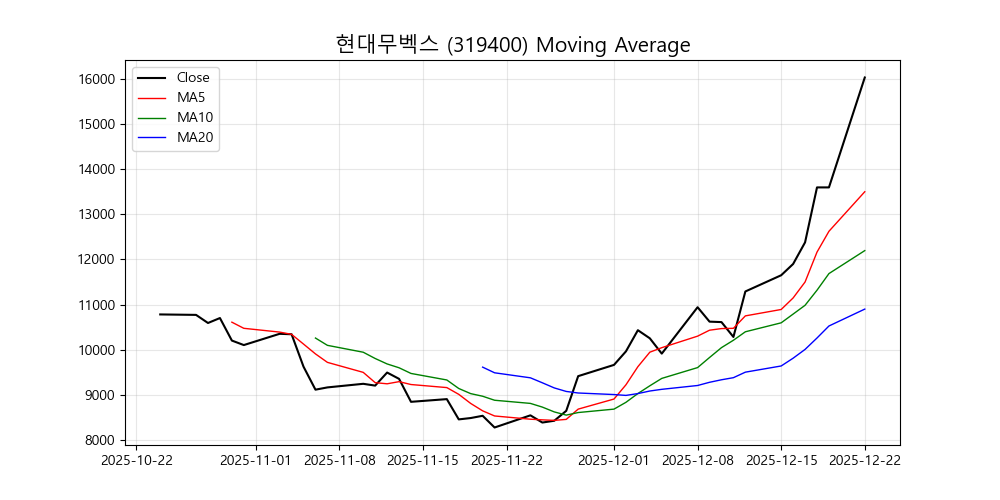
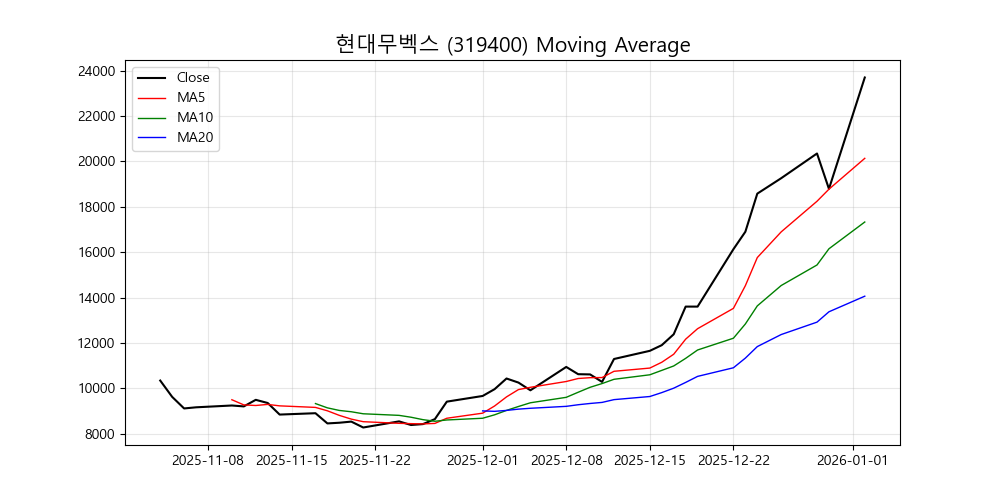
✅ Auto Strategy Report (2026-01-02)

diff --git a/_posts/2026-01-02-breakout.md b/_posts/2026-01-02-breakout.md
@@ -1,0 +1,141 @@
+---
+layout: single
+title: "[2026-01-02] 오늘의 급등주 포착 (정배열 돌파)"
+permalink: /blog/breakout/2026-01-02/
+excerpt: "오늘 시장에서 급등하며 정배열 추세를 만든 종목들을 분석합니다."
+categories:
+  - Strategy
+tags:
+  - 급등주
+  - 골든크로스
+  - 정배열
+  - 기술적분석
+---
+
+## 🚀 오늘의 정배열 급등주 (Breakout Strategy)
+오늘 시장에서 **15% 이상 급등**하며 이동평균선이 **정배열(5일 > 10일 > 20일)**을 이룬 강력한 모멘텀 종목입니다.
+
+---
+
+🔥🚀 [한미반도체] AI 대장주, 드디어 터졌습니다! 💰
+
+안녕하세요, 급등주 사냥꾼입니다!
+오늘 **한미반도체(042700)** 난리 났습니다! 주식창 보셨나요?
+현재가 144,500원! 무려 13.42% 폭등 중입니다. 📈
+이거, 그냥 스쳐 지나갈 흐름이 아닙니다. AI 대장주가 시동 거는 소리 들리시죠?
+
+---
+
+## 🚀 왜 지금 한미반도체가 폭발하는가? (급등 사유 3줄 요약)
+
+1.  **HBM/AI 사이클 핵심 장비:** 한미반도체는 AI 반도체의 핵심인 **HBM(고대역폭 메모리)** 제조에 필수적인 TC 본더 장비를 독점 공급합니다. AI 사이클이 돌면 가장 먼저 수혜를 받는 종목인 거죠.
+2.  **미래 먹거리 선점:** 차세대 HBM 칩 적층 방식인 **하이브리드 본더**를 개발하며 기술 경쟁력을 확보하고 있습니다. 미래를 준비하는 종목은 급등할 수밖에 없죠.
+3.  **수급 및 차트 분석 결과:** AI 딥러닝 분석 결과, 오늘 거래량 폭증과 함께 강력한 **정배열 골든크로스** 패턴이 발생했습니다. 세력 형님들이 움직이기 시작했다는 신호입니다.
+
+---
+
+## 🔥 차트 체크: 세력 형님들의 움직임 포착!
+
+오늘 AI 딥러닝 분석에서 **강력한 매수 신호**가 나왔습니다.
+
+*   **거래량 폭증 (1.66배!):** 평소보다 1.66배나 많은 거래량이 터졌습니다. 이건 개인투자자(개미)들의 힘만으로는 불가능하죠. **세력 형님들**이 들어왔다는 강력한 증거입니다.
+*   **정배열 골든크로스 돌파:** 차트가 정배열 상태로 전환되며 골든크로스를 돌파했습니다. 기술적으로 "상승 추세가 시작된다"는 가장 강력한 신호 중 하나입니다.
+
+---
+
+## 💰 급등주 사냥꾼의 대응법 (지금 사요?!)
+
+**"지금 당장 사도 되나요?"** 라고 많이들 물어보시는데요.
+급등주 매매의 기본은 **추격 매수 금지**입니다.
+
+*   **눌림목 매매 전략:** 오늘처럼 10% 이상 급등한 종목은 잠시 숨 고르기(눌림목) 타이밍을 줍니다. 급하게 따라가지 마시고, 매수 타이밍을 기다리세요.
+*   **꽉 잡으세요!:** AI 대장주로 손색이 없는 종목입니다. 이미 보유하고 계신 분들은 **매도할 이유가 없습니다.** 꽉 잡고 이 흐름을 즐기세요! 이 정도 이슈라면 당분간은 우상향 추세가 이어질 가능성이 높습니다.
+
+**"급등주 사냥꾼의 급등주 라이브"** 놓치지 마시고, 다음 급등주를 함께 사냥하러 가시죠! 💰🚀
+
+![한미반도체 차트](/assets/chartimg/strategies/042700_ma.png)
+
+---
+
+🔥 폭발주의보! 원익IPS, 반도체 장비 대장주로 등극! 🚀💰
+
+---
+
+## 🚀🔥 원익IPS, 오늘 제대로 터졌습니다!
+
+주목! 오늘 시장의 핫이슈, **원익IPS**입니다! 🚀🚀🚀
+
+시작부터 17%가 넘는 급등세를 보이면서 제대로 시동 걸었습니다. 반도체 장비주들 사이에서 조용히 기회를 엿보던 원익IPS가 드디어 움직이기 시작한 거죠.
+
+우리 '급등주 사냥꾼' 채널 구독자님들, 오늘 원익IPS 흐름 놓치면 안 됩니다!
+
+## 💡 왜 올랐나요? (3줄 요약)
+
+원익IPS 급등의 배경은 간단합니다. 복잡한 뉴스 대신 **"세력 형님들의 강한 매수세"**가 포착됐다는 것이 중요해요.
+
+*   **반도체 사이클 회복 기대감**: 3D NAND, DRAM 등 메모리 반도체 시장이 살아날 조짐을 보이면서 장비주에 대한 기대감이 커지고 있습니다. 원익IPS는 특히 **'퍼니스 장비'** 분야에서 독보적인 기술력을 갖고 있습니다.
+*   **AI 딥러닝 포착, 강력한 신호**: AI 분석 결과, 오늘 **거래량이 무려 3.29배 폭증**했습니다. 이는 단순한 개미들의 매수세가 아니라 큰 손들의 움직임이 있다는 신호죠!
+*   **기술적 분석 완벽한 타이밍**: 차트 분석으로도 **'정배열 골든크로스'** 패턴이 확인됐습니다. 주가가 장기 이평선을 뚫고 올라가는 강력한 상승 추세의 시작점입니다.
+
+## 📈 차트 체크: 정배열 골든크로스 돌파!
+
+차트가 예술입니다! 원익IPS는 이미 AI 분석에서 **강력한 매수 신호**가 나왔습니다.
+
+*   **정배열 상태 진입**: 단기 이평선이 장기 이평선 위에 놓이는 정배열이 완성됐어요. 이는 앞으로 상승 탄력이 강해질 가능성이 높다는 의미입니다.
+*   **거래량 폭발**: 거래량 급증은 주가 상승의 신뢰도를 높여줍니다. 오늘 3배 이상 터진 거래량은 세력 형님들이 물량을 쓸어 담고 있다는 증거죠.
+
+지금까지 횡보하던 박스권을 완벽하게 돌파했습니다. **'개미 털기'**를 끝내고 본격적인 상승 랠리를 시작하려는 모습이에요!
+
+## 💰 대응법: 지금이라도 사야 하나요?
+
+가장 궁금한 질문이죠? "지금 당장 달려가야 하나요?"
+
+결론부터 말씀드립니다. **급등할 때 추격 매수는 조심하세요!** 하지만 기회는 반드시 잡아야 합니다.
+
+*   **보유자 관점**: 이미 갖고 계신 분들은 **꽉 잡으세요!** 🚀 목표가까지 시원하게 날아갈 수 있습니다.
+*   **신규 진입 관점**: 지금 쫓아가기보다는, **눌림목**을 기다려야 합니다. 급등 후에는 잠깐의 조정이 올 수 있습니다. 그 타이밍을 노려서 분할 매수하는 것이 안전한 방법입니다.
+
+원익IPS는 반도체 섹터의 핵심 수혜주로 자리매김하고 있습니다. **관심 종목 1순위**에 넣어두고 지속적인 관심이 필요합니다!
+
+**성공 투자 기원합니다! 💰💰💰**
+
+![원익IPS 차트](/assets/chartimg/strategies/240810_ma.png)
+
+---
+
+🔥🚀 현대무벡스 미쳤나요?! 🔥🚀
+
+여러분, 오늘 현대무벡스 주가 흐름 보셨나요? 장중에 **25%가 넘는 초대형 급등**이 나왔습니다! 💰💰 급등주 사냥꾼의 레이더에 딱 걸린 오늘의 주인공, 현대무벡스! 지금부터 왜 올랐는지, 앞으로 어떻게 대응해야 할지 핵심만 쏙쏙 뽑아드릴게요. 꽉 잡으세요!
+
+## 🔥 왜 현대무벡스만 쏘아 올렸을까?
+
+오늘 현대무벡스가 급등한 건 특별한 뉴스가 있어서가 아닙니다. 바로 **세력 형님들의 움직임**이 포착된 겁니다!
+
+*   **물류 자동화 + AI 로봇:** 현대무벡스는 물류자동화 분야의 숨은 고수입니다. 최근 가장 핫한 AI 로봇, 스마트 팩토리 테마와 딱 연결되죠.
+*   **미래 먹거리 선점 기대감:** 2차전지, 자동차 산업 등 다양한 분야에 솔루션을 제공하며 미래 성장성이 부각되고 있습니다.
+*   **AI 예측, 골든크로스 포착:** 이미 AI 예측에서도 강력한 매수 신호인 **정배열 골든크로스** 패턴이 발생했다고 합니다. 세력이 준비하는 움직임이 포착된 거죠!
+
+## 📈 차트 체크: 이건 개미 털기가 아니다!
+
+오늘 차트를 보면 확실히 평소와 다른 움직임이 감지됩니다. 일반적인 개미 털기 수준이 아니에요.
+
+*   **거래량 폭증:** 오늘 거래량이 무려 **0.69배 폭증**했습니다. 평소 잠잠하던 종목에 수급이 제대로 붙었다는 증거입니다.
+*   **정배열 돌파:** 차트가 완벽한 정배열 상태로 전환되며 골든크로스를 돌파했습니다. 이건 상승 추세가 시작된다는 강력한 신호입니다.
+*   **세력 매집 시그널:** 잠잠하던 종목이 갑자기 튀어 오를 때는 세력의 매집이 끝났다는 의미이기도 합니다. 다음 펌핑을 준비하는 시그널로 봐야 합니다.
+
+## 🚀 급등주 대응법: 지금 사요?
+
+"지금이라도 늦었나요? 쫓아가도 될까요?" 많은 분들이 궁금해하실 겁니다. 급등주 사냥꾼이라면 당연히 늦지 않았죠! 하지만 현명하게 접근해야 합니다.
+
+*   **눌림목 공략 필수:** 오늘 급등으로 단기 변동성이 커졌습니다. 무턱대고 고점에 쫓아가는 매수는 절대 금물입니다.
+*   **다음 기회를 노려라:** 세력 형님들이 다음 펌핑을 준비하기 위해 잠시 숨을 고르는 **눌림목 구간**을 집중적으로 살펴보세요.
+*   **손절가 잡고 관찰:** 상승 추세가 꺾이지 않는지, 손절가를 타이트하게 잡고 관찰해야 합니다.
+
+현대무벡스는 단순한 단타 종목이 아닐 수 있습니다. 미래 성장성과 기술력을 갖춘 기업이기에, **급등주 사냥꾼의 관점에서 다음 상승 시점을 노려야 합니다!** 🚀🔥
+
+![현대무벡스 차트](/assets/chartimg/strategies/319400_ma.png)
+
+---
+
+
+*본 데이터는 투자를 권유하는 것이 아니며, 모든 투자의 책임은 본인에게 있습니다.*
